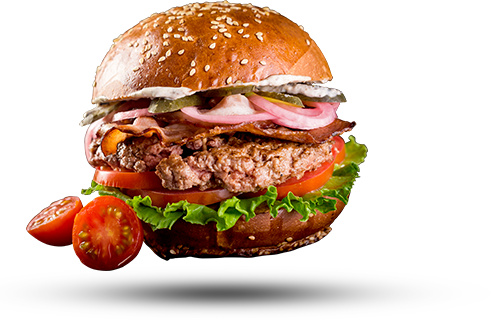
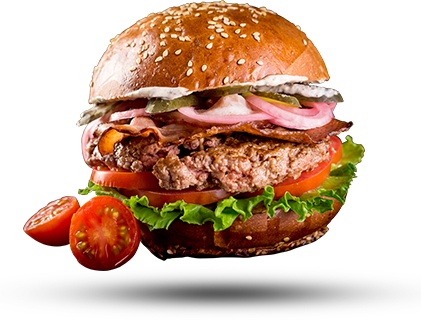
index.html

diff --git a/style.css b/style.css
@@ -53,12 +53,51 @@ body {
 }
 header {
     position: relative;
-    width: 1440px;
+    min-width: 1440px;
     height: 825px;
-    background: url("./img/Rectangle.png") no-repeat;
+    background-image: url("./img/Rectangle.png");
+    background-size: cover;
 }
 .logo {
+    display: inline-block;
     padding: 53px 57px;
+}
+.delivery-info {
+    position: absolute;
+    top: 57px;
+    right: 56px;
+    display: flex;
+    flex-direction: row;
+    align-items: center;
+}
+.delivery-info span {
+    margin-left: 11px;
+    font-family: 'Montserrat', sans-serif;
+    font-size: 16.67px;
+    font-weight: bold;
+    color: #3d2514;
+}
+nav {
+    position: absolute;
+    z-index: 10;
+    top: 119px;
+    right: 56px;
+
+}
+nav ul {
+    margin: 0;
+    list-style: none;
+}
+nav ul li {
+    display: inline-block;
+    font-family: 'Bebas Neue', sans-serif;
+    font-size: 20.83px;
+    letter-spacing: 0.3px;
+    color: #3d2514;
+    margin: 0 29px;
+}
+nav ul li:last-child {
+    margin-right: 0;
 }
 .heading {
     position: absolute;
@@ -93,13 +132,134 @@ header {
     color: rgb(61, 37, 20);
     text-shadow: 3.936px 4.528px 0 rgb(255, 255, 255);
 }
-.header-image {
+.promo-block {
+    position: relative;
+    height: 100%;
+    top: -20%;
+}
+.promo-block-image {
+    max-width: 958px;
     position: absolute;
     right: 0;
     top: 0;
 }
-.promo-image {
+
+.promo {
+    width: 174px;
+    height: 174px;
     position: absolute;
-    right: 39%;
-    bottom: 9%;
+    bottom: 10%;
+    right: calc(958px/2 + 5%);
+    background: url(./img/Design.png) no-repeat;
+}
+.promo p {
+    margin: 0;
+     position: absolute;
+     top: 50%;
+     left: 50%;
+     transform: translate(-50%, -50%);
+     font-family: 'Bebas Neue', sans-serif;
+     font-size: 36px;
+     font-weight: bold;
+     color: #fff;
+    text-align: center;
+}
+.promo p span {
+    font-size: 82px;
+}
+
+.wrapper {
+    width: 1232px;
+    margin: 0 auto;
+}
+.top {
+    margin-top: 78px;
+    display: flex;
+    flex-direction: row;
+}
+section:first-child {
+    margin-right: 42px;
+}
+
+section:nth-child(2) article:first-child {
+    margin-bottom: 35px;
+}
+
+article {
+    position: relative;
+    font-family: 'Bebas Neue', sans-serif;
+    font-weight: bold;
+    color: #fff;
+}
+.heading-article {
+    position: absolute;
+    top: 32px;
+    left: 24px;
+}
+section h2 {
+    margin: 0;
+    font-size: 25px;
+}
+section h1 {
+    margin: 0;
+    font-size: 41.67px;
+}
+.burger-items {
+    display: block;
+    margin-top: 71px;
+    text-align: center;
+}
+.burger-items h2 {
+    display: inline-block;
+    margin: 0 auto;
+    padding: 16px 23px 15px;
+    font-family: 'Bebas Neue', sans-serif;
+    font-size: 25px;
+    font-weight: bold;
+    color: #3d2514;
+    background-color: #ffc045;
+}
+.burger-items h1 {
+    display: block;
+    margin: 37px auto 0;
+    font-family: 'Alfa Slab One', sans-serif;
+    text-transform: uppercase;
+    font-size: 50px;
+    font-weight: bold;
+    color: #3d2514;
+}
+.burger-items p {
+    margin: 33px auto;
+    font-family: 'Montserrat', sans-serif;
+    font-size: 16.67px;
+    color: #3d2514;
+}
+.burger-items-catalog {
+    margin-bottom: 156px;
+    display: flex;
+    flex-direction: row;
+    justify-content: space-around;
+    align-items: flex-end;
+}
+.burger-items-catalog h2 {
+    display: block;
+    margin: 0;
+    font-family: 'Bebas Neue', sans-serif;
+    font-size: 37.5px;
+    background: none;
+    line-height: 0.5;
+}
+.burger-items-catalog p {
+    width: 367px;
+    margin-top: 25px;
+    font-family: 'Montserrat', sans-serif;
+    font-size: 16.67px;
+}
+button.order-now  {
+    padding: 22px 38px 22px 38px;
+    border: none;
+    font-family: 'Alfa Slab One', sans-serif;
+    font-size: 16.67px;
+    color: #fff;
+    background-color: #bf2222;
 }

diff --git a/index.html b/index.html
@@ -10,20 +10,90 @@
     <div class="logo">
         <img src="./img/Logo.png" alt="">
     </div>
+    <div class="delivery-info">
+        <img src="./img/moto.png" alt=""><span>Express Delivery +1 234 567 890</span>
+    </div>
+    <nav>
+        <ul>
+            <li>HOME</li>
+            <li>MENU</li>
+            <li>OUR STORY</li>
+            <li>CONTACT US</li>
+        </ul>
+    </nav>
     <div class="heading">
         <p>It is a good time for the great taste of burgers</p>
         <h1>BURGER</h1>
         <h2>WEEK</h2>
     </div>
 
-    <div class="header-image">
-        <img src="./img/Header-Image.png" alt="">
-    </div>
-    <div class="promo-image">
-        <span>$5.49</span>
-        <span>ONLY</span>
-        <img src="./img/Design.png" alt="">
+    <div class="promo-block">
+        <div class="promo-block-image">
+            <img src="./img/Header-Image.png" alt="">
+        </div>
+        <div class="promo">
+            <p><span>$5</span>.49<br>O N L Y</p>
+        </div>
     </div>
 </header>
+<main>
+    <div class="wrapper">
+        <div class="top">
+            <section>
+                <article>
+                    <div class="heading-article">
+                        <h2>Try it today</h2>
+                        <h1>Most Popular Burger</h1>
+                    </div>
+                    <img src="./img/Burger-Image_1.png" alt="">
+                </article>
+            </section>
+            <section>
+                <article>
+                    <div class="heading-article">
+                        <h2>Try it today</h2>
+                        <h1>More fun <br> more taste</h1>
+                    </div>
+                    <img src="./img/Burger-Image_2.png" alt="">
+                </article>
+                <article>
+                    <div class="heading-article">
+                        <h2>Try it today</h2>
+                        <h1>Fresh & chili</h1>
+                    </div>
+                    <img src="./img/Burger-Image_3.png" alt="">
+                </article>
+            </section>
+        </div>
+    </div>
+
+
+    <div class="burger-items">
+        <h2>Always Tasty Burger</h2><br>
+        <h1>Choose & enjoy</h1>
+        <p>Lorem ipsum dolor sit amet, consectetur adipiscing elit, sed do eiusmod tempor incididunt ut labore et dolore magna aliqua.
+            Quis ipsum suspendisse ultrices gravida. Risus commodo viverra maecenas accumsan lacus vel facilisis.</p>
+        <div class="burger-items-catalog">
+            <div>
+                <img src="./img/Burger_1.png" alt="">
+                <h2>Lorem ipsum dolor</h2>
+                <p>Lorem ipsum dolor sit amet, consectetur adipiscing elit, sed do</p>
+                <button class="order-now">ORDER NOW</button>
+            </div>
+            <div>
+                <img src="./img/Burger_2.png" alt="">
+                <h2>Lorem ipsum dolor</h2>
+                <p>Lorem ipsum dolor sit amet, consectetur adipiscing elit, sed do</p>
+                <button class="order-now">ORDER NOW</button>
+            </div>
+            <div>
+                <img src="./img/Burger_3.png" alt="">
+                <h2>Lorem ipsum dolor</h2>
+                <p>Lorem ipsum dolor sit amet, consectetur adipiscing elit, sed do</p>
+                <button class="order-now">ORDER NOW</button>
+            </div>
+        </div>
+    </div>
+</main>
 </body>
 </html>
